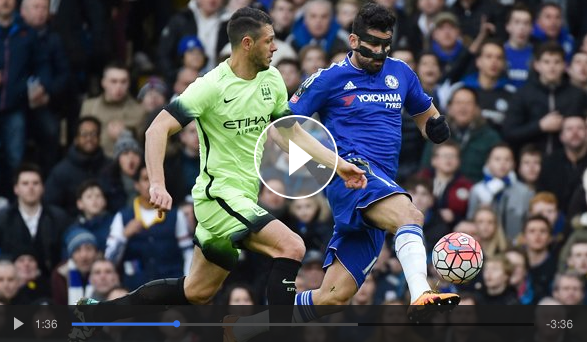
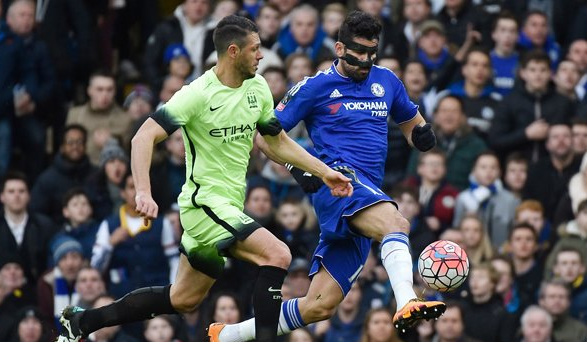
首页视频图修改

diff --git a/html/ssfl/static/css/style.css b/html/ssfl/static/css/style.css
@@ -134,6 +134,9 @@ input[type=file]{display:none}
 .main_box .vid_box h2 span{background:#fff;padding:0 4px 0 0;font-size:22px;display:inline-block}
 .main_box .vid_box h2 a{position:absolute;right:0;bottom:6px;color:#666}
 .main_box .vid_main{width:588px;height:494px;background:#313131;margin-top:10px;float:left}
+.main_box .vid_main .vid_container{position:relative;width:588px;height:342px;}
+.main_box .vid_main .vid_container img{width:588px;height:342px;}
+.main_box .vid_main .vid_container i{position:absolute;width:588px;height:342px;left:0;top:0;background:url(../img/play_b.png) no-repeat center center;z-index:1}
 .main_box .vid_other{width:245px;height:494px;margin-top:10px;float:right}
 .main_box .vid_other li{position:relative;width:245px;height:158px;float:right;margin-bottom:10px;cursor:pointer}
 .main_box .vid_other li i{position:absolute;display:block;left:0;right:0;top:0;bottom:0;background:url(../img/play.png) no-repeat center center}

diff --git a/html/ssfl/index.html b/html/ssfl/index.html
@@ -103,7 +103,7 @@
 			<div class="vid_box">
 				<h2><span>视频专区</span><a href="###">更多</a></h2>
 				<div class="vid_main">
-					<img src="static/img/vid.png" border="0">
+					<div class="vid_container"><a href="###"><img src="static/img/vid.png" border="0"><i></i></a></div>
 					<div class="picker">
 						<div class="pi_wrap">
 							<ul move=0>
